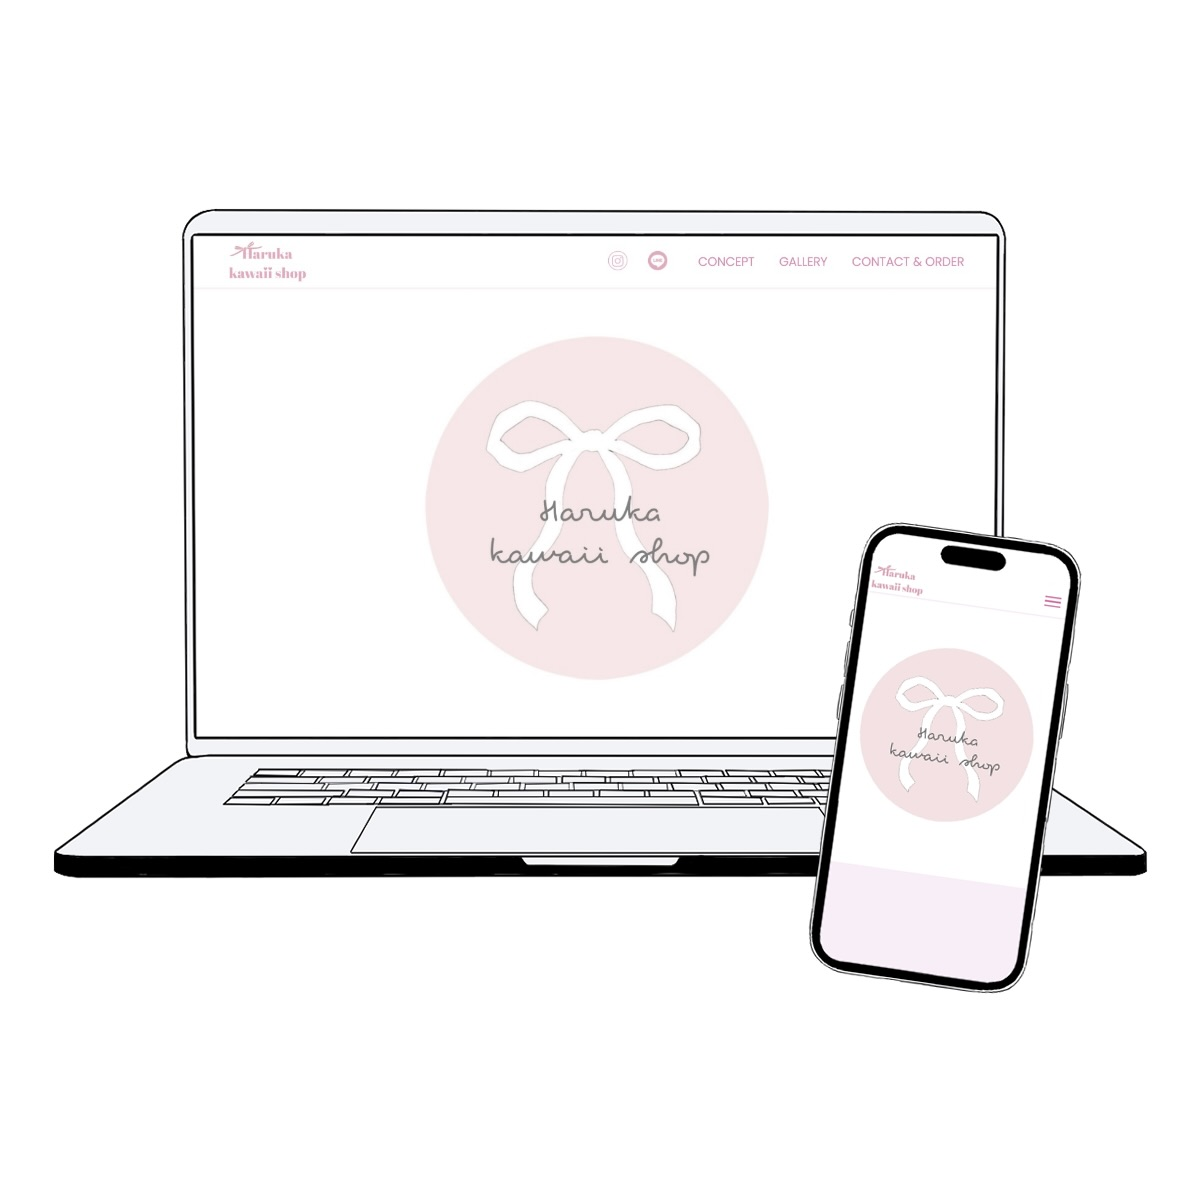
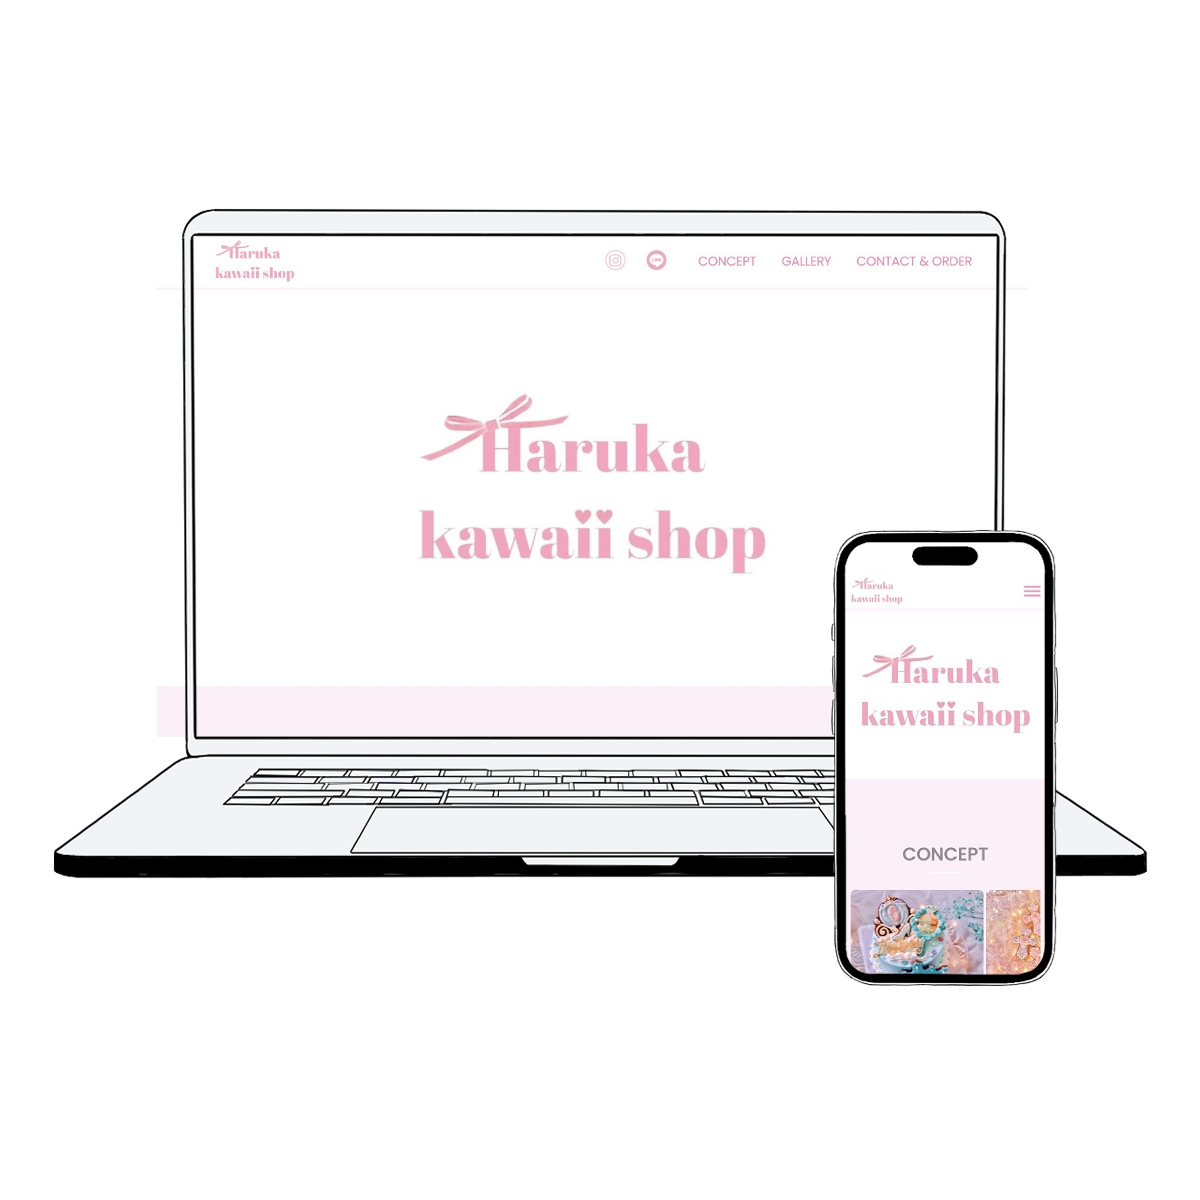
front-page.php 追加 url php訂正

diff --git a/css/style.css b/css/style.css
@@ -4,6 +4,7 @@
 html {
   scroll-behavior: smooth;
   scroll-padding-top: 60px;
+  overflow-x: hidden;
 }
 @media screen and (min-width: 768px) {
   html {
@@ -17,6 +18,7 @@ body {
   font-size: 16px;
   font-weight: 600;
   line-height: 1.7;
+  overflow-x: hidden;
 }
 
 @media screen and (min-width: 600px) {
@@ -671,7 +673,6 @@ body {
   font-size: 16vw;
   text-align: center;
   font-weight: 700;
-  /*Create overlap*/
   line-height: 0;
   -webkit-animation: glitch1 2.5s infinite;
           animation: glitch1 2.5s infinite;
@@ -679,12 +680,7 @@ body {
 }
 @media screen and (min-width: 768px) {
   .fv__title-back {
-    font-size: 15vw;
-  }
-}
-@media screen and (min-width: 900px) {
-  .fv__title-back {
-    font-size: 15vw;
+    font-size: min(700px, 14vw);
   }
 }
 .fv__title-back:nth-child(2) {
@@ -1156,7 +1152,7 @@ body {
 
 .fv__title-front {
   position: absolute;
-  top: -38px;
+  top: -43px;
   left: 50px;
   color: #ffffff;
   -webkit-text-fill-color: transparent;
@@ -1171,6 +1167,7 @@ body {
           transform: scaleX(var(--scale, 1));
   -webkit-animation: glitch-p 7s infinite alternate;
           animation: glitch-p 7s infinite alternate;
+  overflow-x: clip;
 }
 @media screen and (min-width: 768px) {
   .fv__title-front {
@@ -1182,8 +1179,8 @@ body {
 @media screen and (min-width: 900px) {
   .fv__title-front {
     top: -130px;
-    left: 250px;
-    font-size: 11vw;
+    left: 240px;
+    font-size: min(600px, 11vw);
   }
 }
 .fv__title-front::before, .fv__title-front::after {
@@ -1755,6 +1752,7 @@ body {
   border: 4px solid #333;
   border-radius: 50px;
   padding: 35px 20px 60px;
+  overflow-x: clip;
 }
 @media screen and (min-width: 768px) {
   .works__card {
@@ -1919,7 +1917,7 @@ body {
 }
 @media screen and (min-width: 768px) {
   .container > .banner > p {
-    font-size: 17px;
+    font-size: 14px;
   }
 }
 
@@ -1936,7 +1934,7 @@ body {
 }
 @media screen and (min-width: 768px) {
   .container > .banner > a {
-    font-size: 22px;
+    font-size: 18px;
   }
 }
 

diff --git a/sass/style.scss b/sass/style.scss
@@ -26,6 +26,7 @@ $breakpoints: (
 html {
   scroll-behavior: smooth;
   scroll-padding-top: $header-hight-sp;
+  overflow-x: hidden;
 
   @include mq(md) {
     scroll-padding-top: $header-hight-pc;
@@ -38,6 +39,7 @@ body {
   font-size: 16px;
   font-weight: 600;
   line-height: 1.7;
+  overflow-x: hidden;
 }
 
 //共通クラス
@@ -570,7 +572,6 @@ body {
   position: relative;
 
   @include mq(lg) {
-    
   }
 }
 
@@ -579,15 +580,11 @@ body {
   font-size: 16vw;
   text-align: center;
   font-weight: 700;
-  /*Create overlap*/
   line-height: 0;
   animation: glitch1 2.5s infinite;
 
   @include mq(md) {
-    font-size: 15vw;
-  }
-  @include mq(lg) {
-    font-size: 15vw;
+    font-size: min(700px, 14vw);
   }
 
   &:nth-child(2) {
@@ -826,7 +823,7 @@ body {
 
 .fv__title-front {
   position: absolute;
-  top: -38px;
+  top: -43px;
   left: 50px;
   color: $sub2-color;
   -webkit-text-fill-color: transparent;
@@ -837,6 +834,7 @@ body {
   flex: 1;
   transform: scaleX(var(--scale, 1));
   animation: glitch-p 7s infinite alternate;
+  overflow-x: clip;
 
   @include mq(md) {
     top: -90px;
@@ -846,8 +844,8 @@ body {
 
   @include mq(lg) {
     top: -130px;
-    left: 250px;
-    font-size: 11vw;
+    left: 240px;
+    font-size: min(600px, 11vw);
   }
 
   &::before,
@@ -1271,6 +1269,7 @@ body {
 }
 
 //work
+
 .works__inner {
   margin-block: 50px 110px;
 }
@@ -1296,6 +1295,7 @@ body {
   border: 4px solid #333;
   border-radius: 50px;
   padding: 35px 20px 60px;
+  overflow-x: clip;
 
   @include mq(md) {
     border-radius: 30px;
@@ -1448,7 +1448,7 @@ body {
   font-size: 13px;
 
   @include mq(md) {
-    font-size: 17px;
+    font-size: 14px;
   }
 }
 
@@ -1464,7 +1464,7 @@ body {
   align-self: center;
 
   @include mq(md) {
-    font-size: 22px;
+    font-size: 18px;
   }
 }
 

diff --git a/single-work.php b/single-work.php
@@ -101,7 +101,7 @@
                 <div class="swiper-wrapper">
                   <div class="swiper-slide">
                     <div class="other-card">
-                      <a href="<?php the_field('url','59');?>" class="other-card__img">
+                      <a href="<?php echo home_url('/work/portfolio-site');?>" class="other-card__img">
                         <img src="<?php the_field('image','59');?>" alt="" />
                       </a>
                       <div class="other-card__text"><?php the_field('title','59');?></div>
@@ -109,7 +109,7 @@
                   </div>
                   <div class="swiper-slide">
                     <div class="other-card">
-                      <a href="<?php the_field('url','61');?>" class="other-card__img">
+                      <a href="<?php echo home_url('/work/shop-site/');?>" class="other-card__img">
                         <img src="<?php the_field('image','61');?>" alt="" />
                       </a>
                       <div class="other-card__text"><?php the_field('title','61');?></div>
@@ -117,7 +117,7 @@
                   </div>
                   <div class="swiper-slide">
                     <div class="other-card">
-                      <a href="<?php the_field('url','63');?>" class="other-card__img">
+                      <a href="<?php echo home_url('/work/corporate-site/');?>" class="other-card__img">
                         <img src="<?php the_field('image','63');?>" alt="" />
                       </a>
                       <div class="other-card__text"><?php the_field('title','63');?></div>
@@ -125,7 +125,7 @@
                   </div>
                   <div class="swiper-slide">
                     <div class="other-card">
-                      <a href="<?php the_field('url','70');?>" class="other-card__img">
+                      <a href="<?php echo home_url('/work/corporate-site2/');?>" class="other-card__img">
                         <img src="<?php the_field('image','70');?>" alt="" />
                       </a>
                       <div class="other-card__text"><?php the_field('title','70');?></div>
@@ -133,7 +133,7 @@
                   </div>
                   <div class="swiper-slide">
                     <div class="other-card">
-                      <a href="<?php the_field('url','59');?>" class="other-card__img">
+                      <a href="<?php echo home_url('/work/portfolio-site');?>" class="other-card__img">
                         <img src="<?php the_field('image','59');?>" alt="" />
                       </a>
                       <div class="other-card__text"><?php the_field('title','59');?></div>
@@ -141,7 +141,7 @@
                   </div>
                   <div class="swiper-slide">
                     <div class="other-card">
-                      <a href="<?php the_field('url','61');?>" class="other-card__img">
+                      <a href="<?php echo home_url('/work/shop-site/');?>" class="other-card__img">
                         <img src="<?php the_field('image','61');?>" alt="" />
                       </a>
                       <div class="other-card__text"><?php the_field('title','61');?></div>
@@ -149,7 +149,7 @@
                   </div>
                   <div class="swiper-slide">
                     <div class="other-card">
-                      <a href="<?php the_field('url','63');?>" class="other-card__img">
+                      <a href="<?php echo home_url('/work/corporate-site/');?>" class="other-card__img">
                         <img src="<?php the_field('image','63');?>" alt="" />
                       </a>
                       <div class="other-card__text"><?php the_field('title','63');?></div>
@@ -157,7 +157,7 @@
                   </div>
                   <div class="swiper-slide">
                     <div class="other-card">
-                      <a href="<?php the_field('url','70');?>" class="other-card__img">
+                      <a href="<?php echo home_url('/work/corporate-site2/');?>" class="other-card__img">
                         <img src="<?php the_field('image','70');?>" alt="" />
                       </a>
                       <div class="other-card__text"><?php the_field('title','70');?></div>

diff --git a/header.php b/header.php
@@ -37,12 +37,7 @@
           <nav id="js-drawer-content" class="header__nav">
             <ul class="header__lists">
               <li class="header__list">
-              <?php if(have_posts()): ?>
-                      <?php while(have_posts()) :?>
-                        <?php the_post(); ?>
-                <a href="<?php the_permalink(); ?>#about" class="header__link">
-                <?php endwhile;?>
-                <?php endif;?>
+                <a href="<?php echo home_url('/aboutページ');?>#about" class="header__link">
                   <span class="link__text">ABOUT</span>
                   <span class="link__text">詳しく</span>
                 </a>
